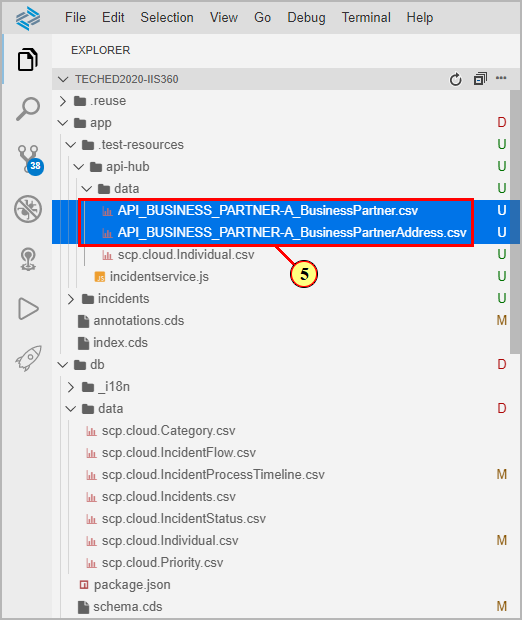
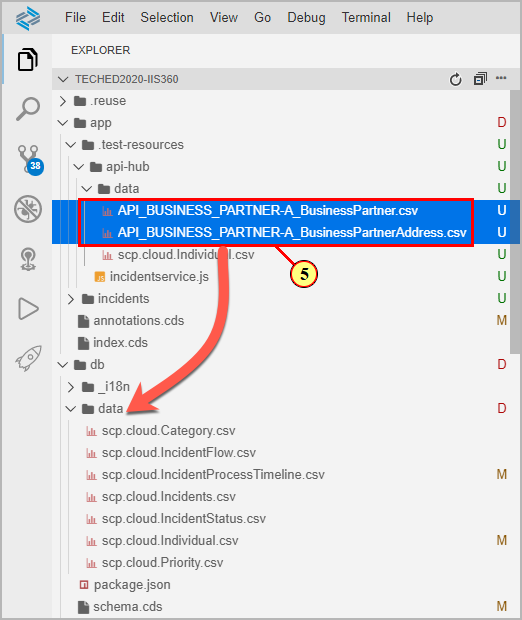
ex7 continued

Changed region(s): [[0.2452, 0.3984, 0.4598, 0.6742]]

diff --git a/exercises/ex7/README.md b/exercises/ex7/README.md
@@ -7,7 +7,7 @@ The data will be visualized in the object pages header as a contact card.
 
 ## Exercise 7.1 Get the Business Partner EDMX file
 
-After completing these steps you will download the Business Partner EDMX specification from SAP API Hub and import it into your CAP service.\
+After completing these steps you will download the Business Partner EDMX specification from SAP API Hub and import it into the CAP service.\
 Open the [SAP API Business Hub page](https://api.sap.com/api/API_BUSINESS_PARTNER/resource?tag=Business%20Partner) in your browser.
 
 (1) Choose the **Details** tab\
@@ -21,10 +21,14 @@ In case you have problems downloading the file, you can also find API_BUSINESS_P
 
 ## Exercise 7.2 Add the EDMX File and local data to your project
 
+In this exercise, you will import the downloaded EDMX specification into the CAP service.
+By providing mock data, you will be able to develop and test the imported entities without the need of having S/4 HANA backend connectivity in place.
+
 If not already running, start the CAP service with **cds watch**.\
-Drag the API_BUSINESS_PARTNER.edmx file from your browser's download area/folder onto your BAS workplace and drop it into the srv folder of  app.\
+Drag the API_BUSINESS_PARTNER.edmx file from your browser's download area/folder onto your BAS workplace and drop it into folder **srv**.\
 CAP will automatically create a new folder  **srv/external** and generate a new file API_BUSINESS_PARTNER.csn in it, which is a compact representation of CDS.\
-If the folder is not automatically generated, run the following command in your terminal session: **cds import srv/API_BUSINESS_PARTNER.edmx**
+If the folder is not automatically generated, run the following command in your terminal session from the projects root folder:\
+**cds import srv/API_BUSINESS_PARTNER.edmx**
 
 In the BAS project explorer, open file **srv/incidentservice.cds**.\
 (3) Add the following code in line 2:
@@ -46,66 +50,106 @@ entity BusinessPartnerAddress  as projection on external.A_BusinessPartnerAddres
 ```
 ![](./images/image3.png)
 
-By adding the using statement (3), a new service is exposed with a definition based on the original edmx file. Furthermore, we have extended the Incidents service by adding two entities projecting entities from the Business Partner API (4).\
+By adding the using statement (3), a new service is exposed with a definition based on the original edmx file. Furthermore, you have extended the Incidents service by adding two entities projecting entities from the Business Partner API (4).\
 Since there is no backend connectivity in place yet, you will start with using local data first.
 
-In BAS project explorer, open folder **app/test-resources/api-hub/data.\
-Select the two CSV files (5)
+In BAS project explorer, open folder **app/test-resources/api-hub/data**.\
+(5) Select the two CSV files, drag and drop to folder **db/data**
 
-
+- API_BUSINESS_PARTNER-A_BusinessPartner.csv
+- API_BUSINESS_PARTNER-A_BusinessPartnerAddress.csv
 
 ![](./images/image4.png)
 
-(5) select csvs, drag and drop to data folder
-
-![](./images/image5.png)
-
-(6) In mock mode, the api-business-partner service is additionally
-exposed.
-
-Click on one of the entities to show mock data.
-
+(6) In the preview browser tab, click on one of the marked entities to show mock data.
 Note that only the fields show data where mock data has been provided
 for.
 
+![](./images/image5.png)
+
 (7) Clicking on the new entities of the Incidents service shows mock
-data for the projection only.
+data for the projected entity fields only.
 
 ![](./images/image6.png)
 
+## Exercise 7.3 Add associations to Incidents Service entities
+
+In this exercise, you will add additional properties to entity **Individual** and associations to the Business Partner Service entities.
+
+In the BAS project explorer, open file **db/schema.cds**.\
+(8) Scroll to the entity definition **Individual** and add the two additional properties
+```js
+businessPartnerID : String;
+addressID : String;
+```
+
 ![](./images/image7.png)
 
-(8) new properties for entity Individual
+For the additional properties, you require additional mock data.\
+In BAS project explorer, open folder **app/test-resources/api-hub/data**.\
+(9) Select the remaining CSV file scp.cloud.Individual.csv.\
+(10) Drag and drop to folder **db/data**.
 
 ![](./images/image8.png)
 
-(9) Drag **scp.cloud.Individual.csv **![](./images/image9.png).
-
-(10) Drop on .
+(11) Click ![](./images/image11.png) to confirm replacement of the existing csv file.
 
 ![](./images/image10.png)
 
-(11) Click **Yes **![](./images/image11.png).
+(12) In your browser preview tab, select entity ![](./images/image13.png).
 
 ![](./images/image12.png)
 
-(12) Click **Individual **![](./images/image13.png).
+(13) Mock data for the additional properties are shown.
 
 ![](./images/image14.png)
 
-(13) additional individual properties
+In order to incorporate the external services data into the service model,\
+you will now add some associations.\
+In BAS Explorer, open file **db/schema.cds**.
+(14) Add the following code in line 2:
+
+```js
+using {API_BUSINESS_PARTNER as external} from '../srv/external/API_BUSINESS_PARTNER.csn';
+```
 
 ![](./images/image15.png)
 
-(14) Add using statement
+Scroll down to section **//add associations to external entities**\
+(15) Add the following code:
+
+```js
+extend scp.cloud.Individual with {
+  businessPartner        : Association to one external.A_BusinessPartner
+  on businessPartner.BusinessPartner = businessPartnerID;
+  businessPartnerAddress : Association to one external.A_BusinessPartnerAddress
+  on  businessPartnerAddress.BusinessPartner = businessPartnerID
+  and businessPartnerAddress.AddressID       = addressID;
+    }
+```
 
 ![](./images/image16.png)
 
-(15) Add associations to external entities
+You can test the new associations in the preview browser tab.
+Select entity **Individual** and add the following to the browser Url
+
+```js
+(id=067460c5-196c-4783-9563-ede797399da8)?$expand=businessPartnerAddress
+```
+
+This will show the business partner address data inline with the Individual data.
+
+![](./images/image15a.png)
+
+## Exercise 7.4 Add annotation for contact card
+
+In this exercise you will add an annotation of type @Communication.Contact with properties referring to the new external entities.
+
+(16) In BAS project explorer, open file **common.cds**.\
+ Add contact card annotation
 
 ![](./images/image17.png)
 
-(16) Add contact card annotation
 
 ![](./images/image18.png)
 
@@ -139,35 +183,15 @@ data for the projection only.
 
 (24) Click **Kirchhög, 99867 Gotha, DE **![](./images/image28.png).
 
-
-
-
-
-2.	Insert this line of code in schema.cds.
-```js
- using { API_BUSINESS_PARTNER as external } from '../srv/external/API_BUSINESS_PARTNER.csn';
-
-```
-
 1. insert
-   ```js
-    entity BusinessPartner         as projection on external.A_BusinessPartner {
-        key BusinessPartner, BusinessPartnerFullname
-    };
-    entity BusinessPartnerAddress  as projection on external.A_BusinessPartnerAddress {
-        key BusinessPartner, key AddressID, CityName, Country, PostalCode, StreetName, HouseNumber
-    }
-    ```
-
-2. insert
    ,
     {
         $Type  : 'UI.DataFieldForAnnotation',
         Target : 'assignedIndividual/@Communication.Contact',
         Label  : '{i18n>AssignedContact}'
     }
-3. uncomment properties in schema.cds Individuals entity
-4. Insert lines of code in schema.cds
+2. uncomment properties in schema.cds Individuals entity
+3. Insert lines of code in schema.cds
 ```js
 extend scp.cloud.Individual with {
   businessPartner        : Association to one external.A_BusinessPartner
@@ -179,16 +203,7 @@ extend scp.cloud.Individual with {
 ```
 
 4.	Insert this line of code in incidentsservice.cds.
-```js
- using { API_BUSINESS_PARTNER as external } from '../srv/external/API_BUSINESS_PARTNER.csn';
-extend scp.cloud.Individual with {
-  businessPartner        : Association to one external.A_BusinessPartner
-  on businessPartner.BusinessPartner = businessPartnerID;
-  businessPartnerAddress : Association to one external.A_BusinessPartnerAddress
-  on  businessPartnerAddress.BusinessPartner = businessPartnerID
-  and businessPartnerAddress.AddressID       = addressID;
-    }
-```
+
 insert
    ,
     {
@@ -233,5 +248,3 @@ READ TABLE lt_params REFERENCE INTO DATA(lr_params) WITH KEY name = 'cmd'.
 ## Summary
 
 You've now ...
-
-Continue to - [Exercise 3 - Excercise 3 ](../ex3/README.md)
